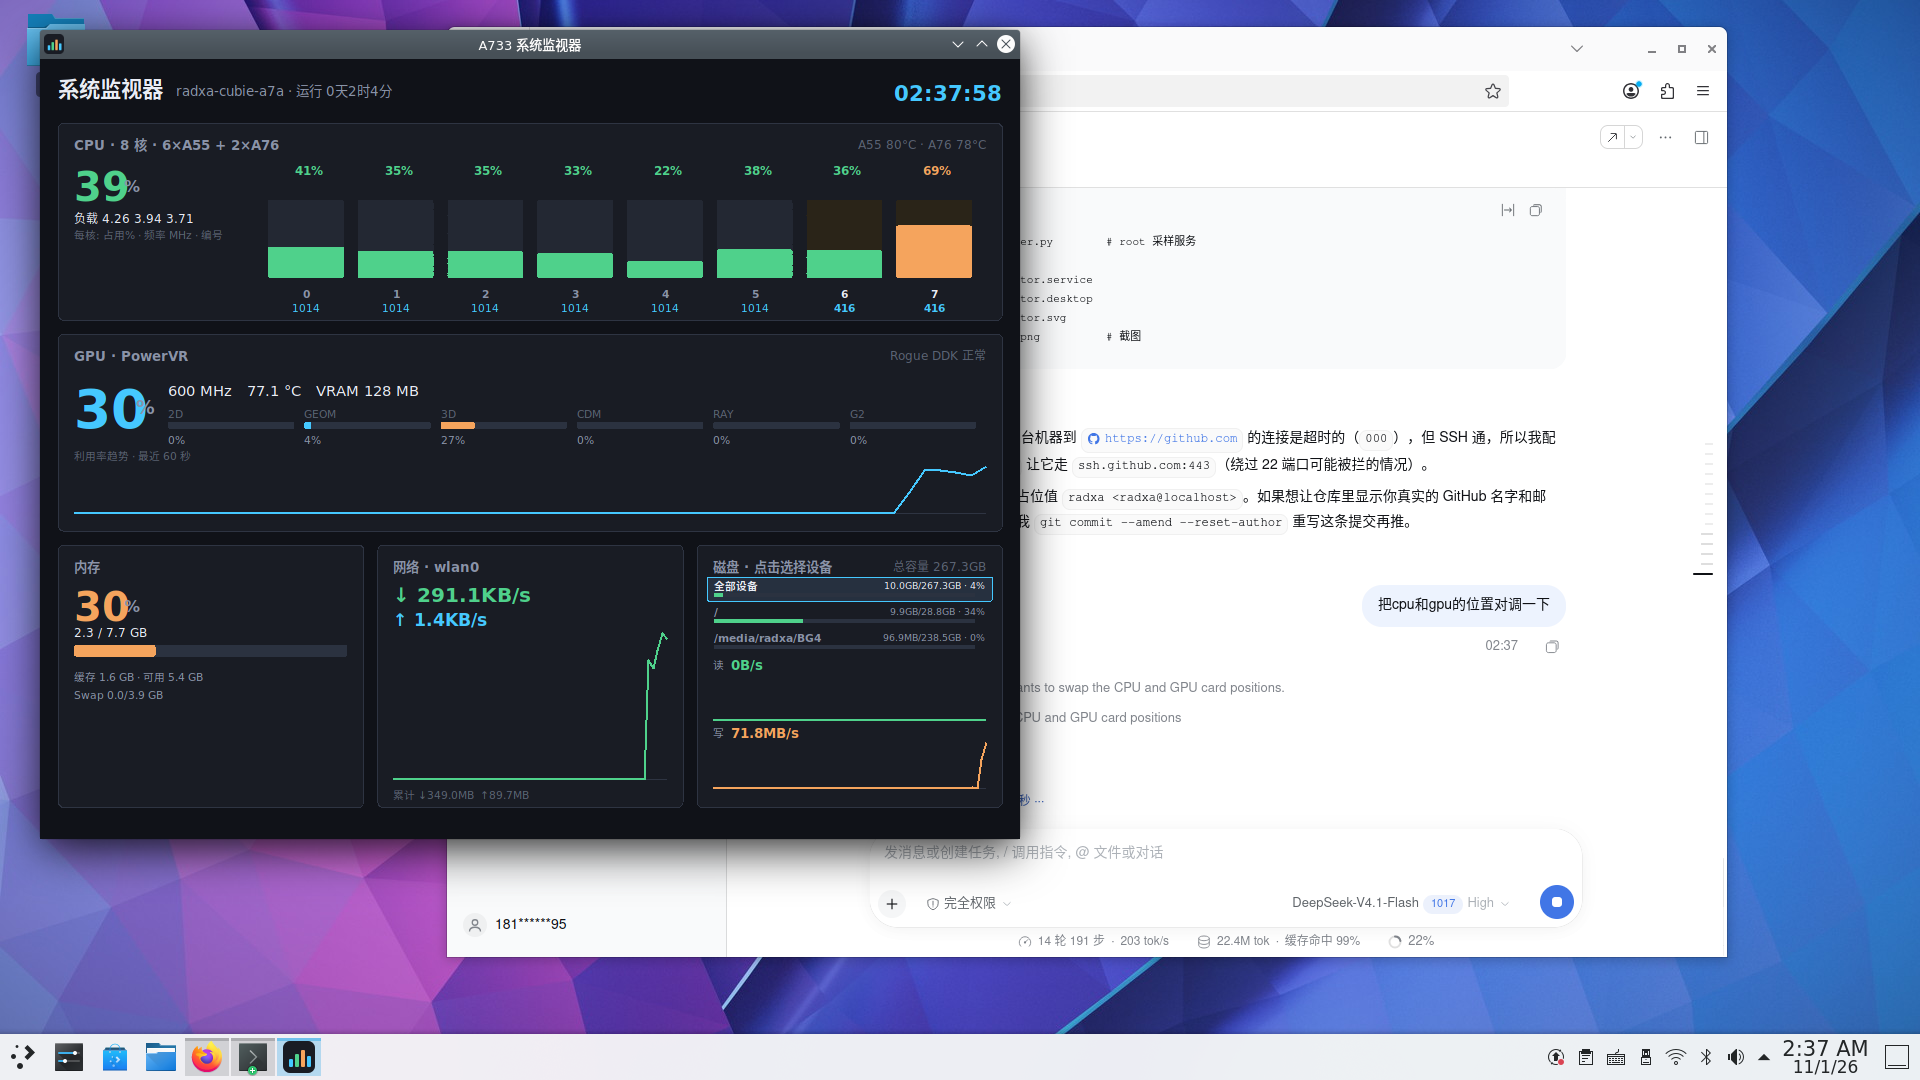
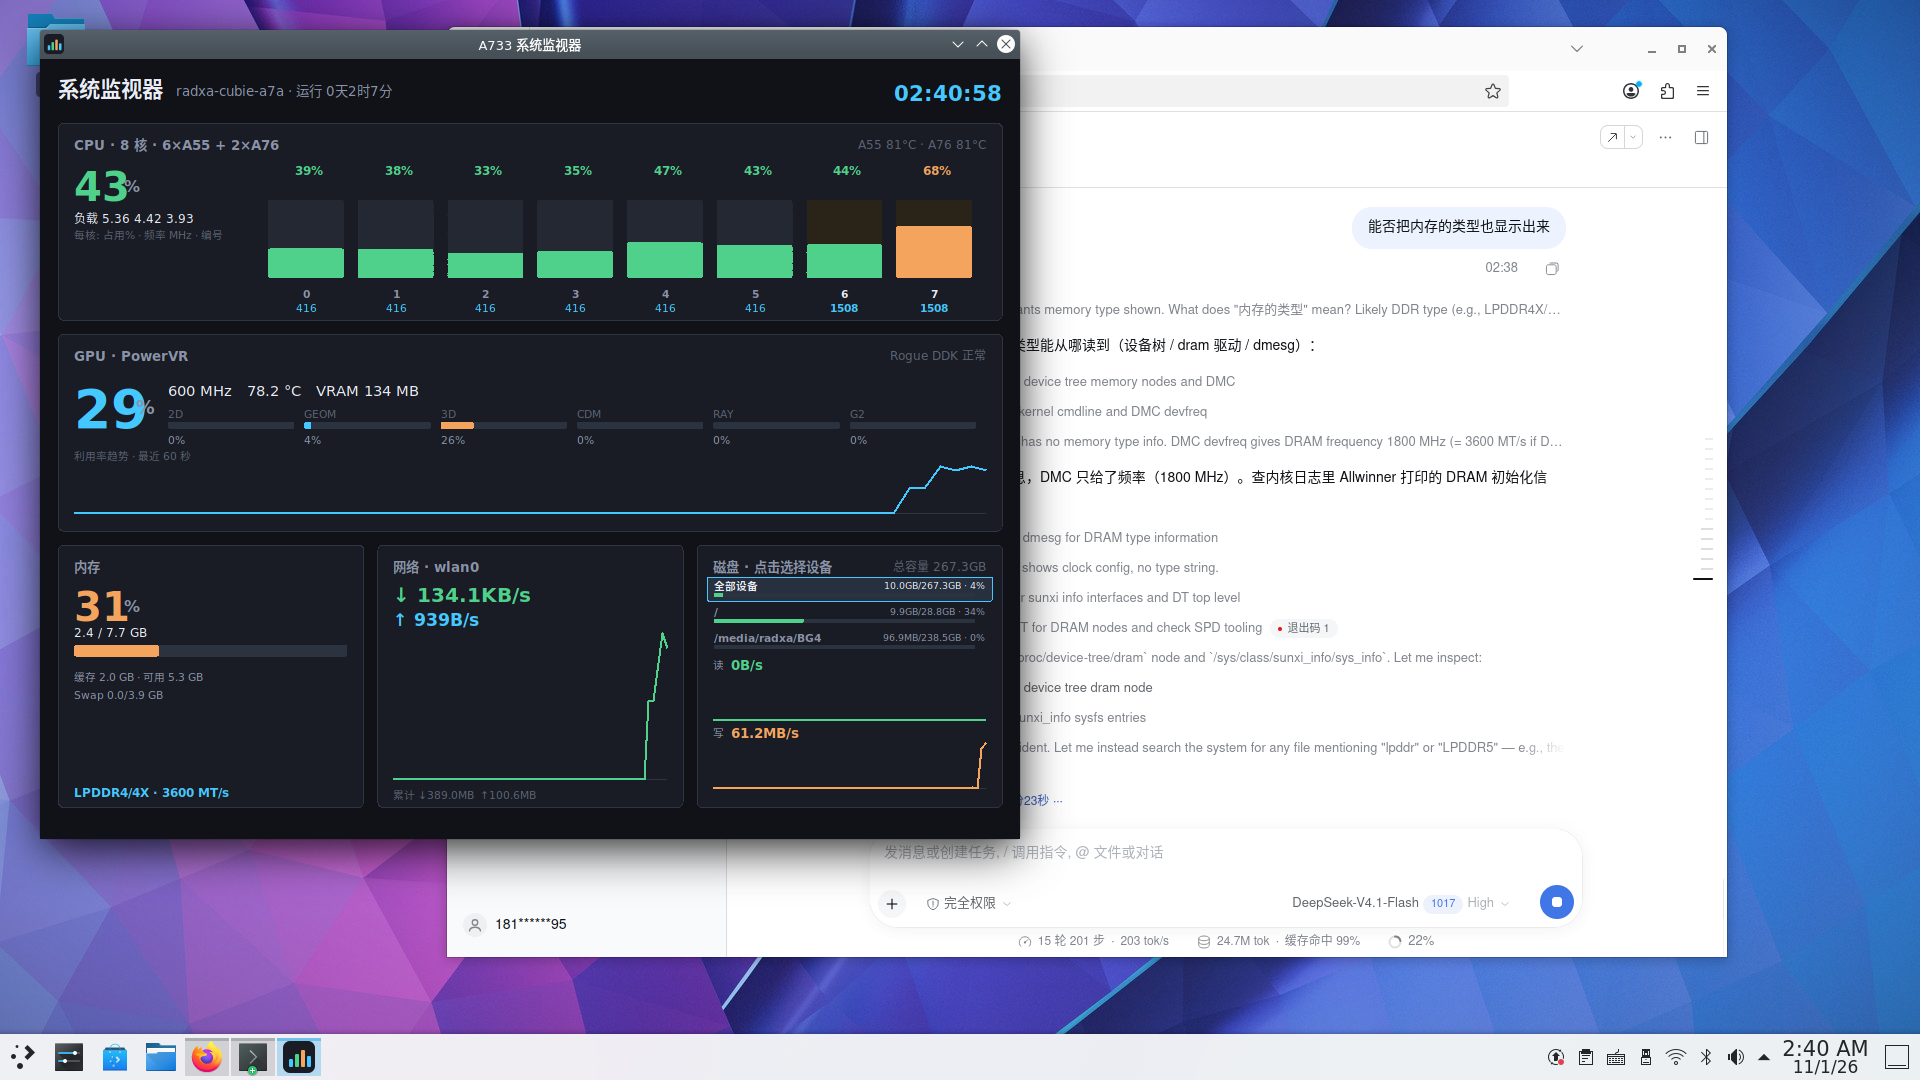
feat: 内存卡显示内存类型与 DRAM 速率 (LPDDR4/4X · 3600 MT/s)

diff --git a/README.md b/README.md
@@ -12,7 +12,7 @@
 |---|---|
 | **GPU · PowerVR** | 总利用率、2D / GEOM / 3D / CDM / RAY / GEOM2 分模块占用、频率、温度、显存、60 秒趋势 |
 | **CPU** | 总占用、每核占用率与**实时频率**、大小核分簇（6×A55 + 2×A76）、簇温度、负载均值 |
-| **内存** | 占用率、已用/总量、缓存、Swap |
+| **内存** | 占用率、已用/总量、缓存、Swap，以及**内存类型与速率**（如 `LPDDR4/4X · 3600 MT/s`） |
 | **网络** | 上下行实时速率、60 秒曲线、累计流量 |
 | **磁盘** | 按设备点选（全部 / eMMC / NVMe），各设备独立的**读、写曲线**，以及 已用 / 总容量 · 占用率 |
 
@@ -76,10 +76,22 @@ sudo dpkg -r a733-monitor
 | GPU 温度 | `/sys/class/thermal/thermal_zone4`（`gpu_thermal_zone`） |
 | 每核占用 | `/proc/stat` |
 | 每核频率 | `/sys/devices/system/cpu/cpuN/cpufreq/scaling_cur_freq` |
-| 内存 | `/proc/meminfo` |
+| 内存用量 | `/proc/meminfo` |
+| 内存类型 | `/proc/device-tree/compatible` → 板型查表 |
+| 内存速率 | `/sys/class/devfreq/*dmc*/cur_freq` × 2 |
 | 网络 | `/proc/net/dev` |
 | 磁盘读写 | `/proc/diskstats`（按整盘，不按分区） |
 | 磁盘容量 | `statvfs()` |
+
+## 支持机型
+
+| 板型（devicetree） | 内存类型 |
+|---|---|
+| `radxa,cubie-a7z` | LPDDR4/4X |
+| `radxa,cubie-a7a` | LPDDR5 |
+
+内存类型在 sysfs 里没有直接暴露。这里的做法是：读 `/proc/device-tree/compatible` 判断板型，
+再查上表；DRAM 数据率由 DMC 时钟 × 2 得出。换成未知板型时该行会自动隐藏，不会显示错误值。
 
 ## 已知限制
 
